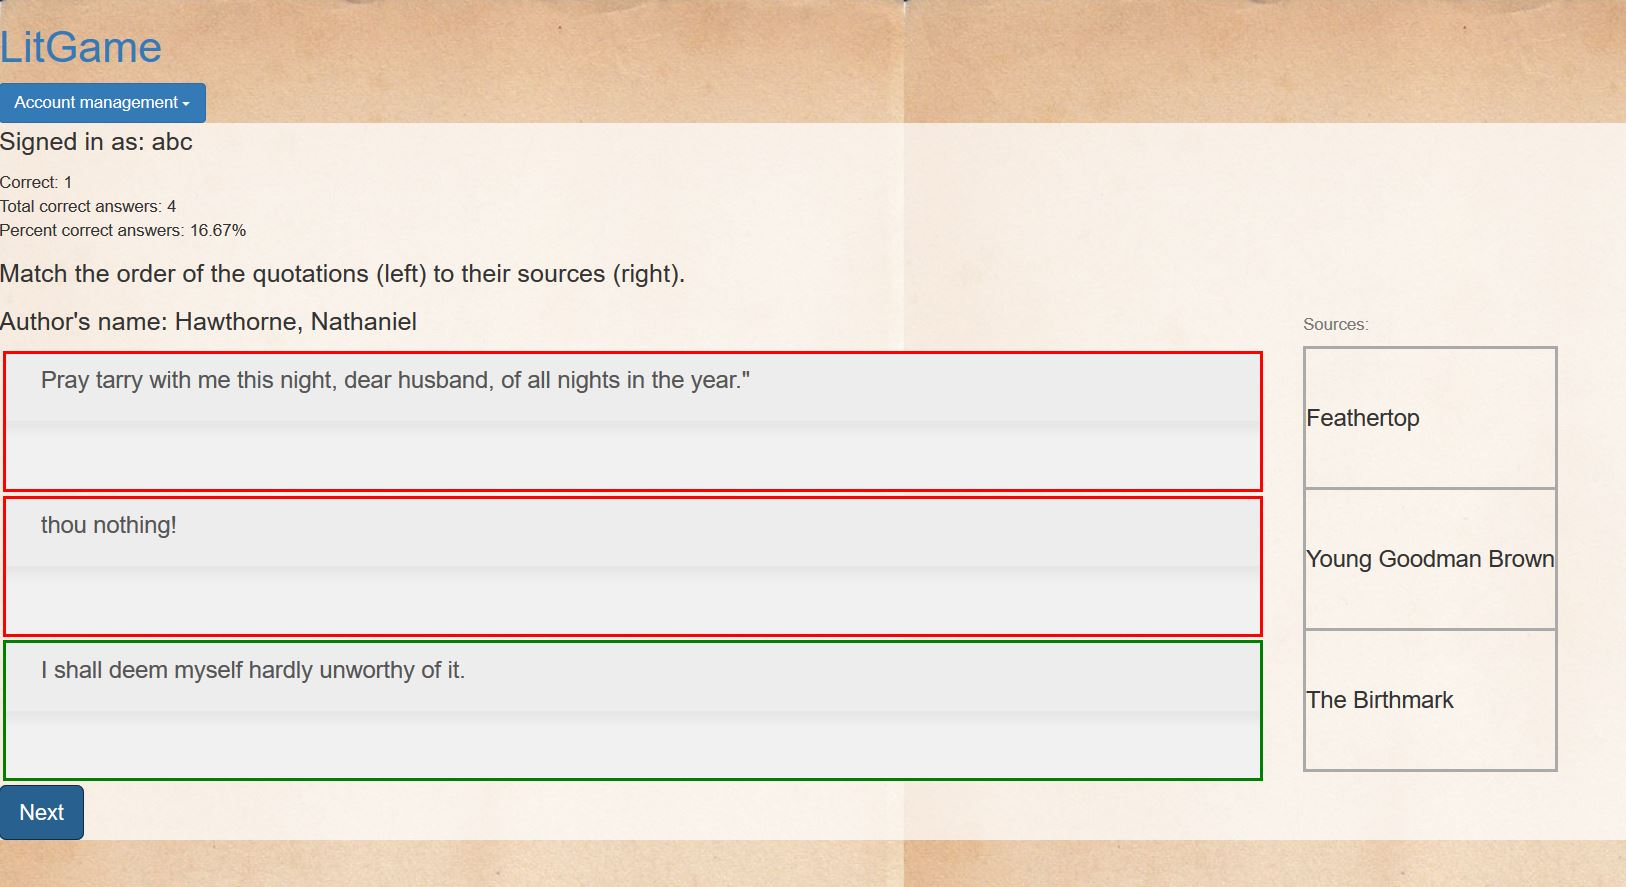
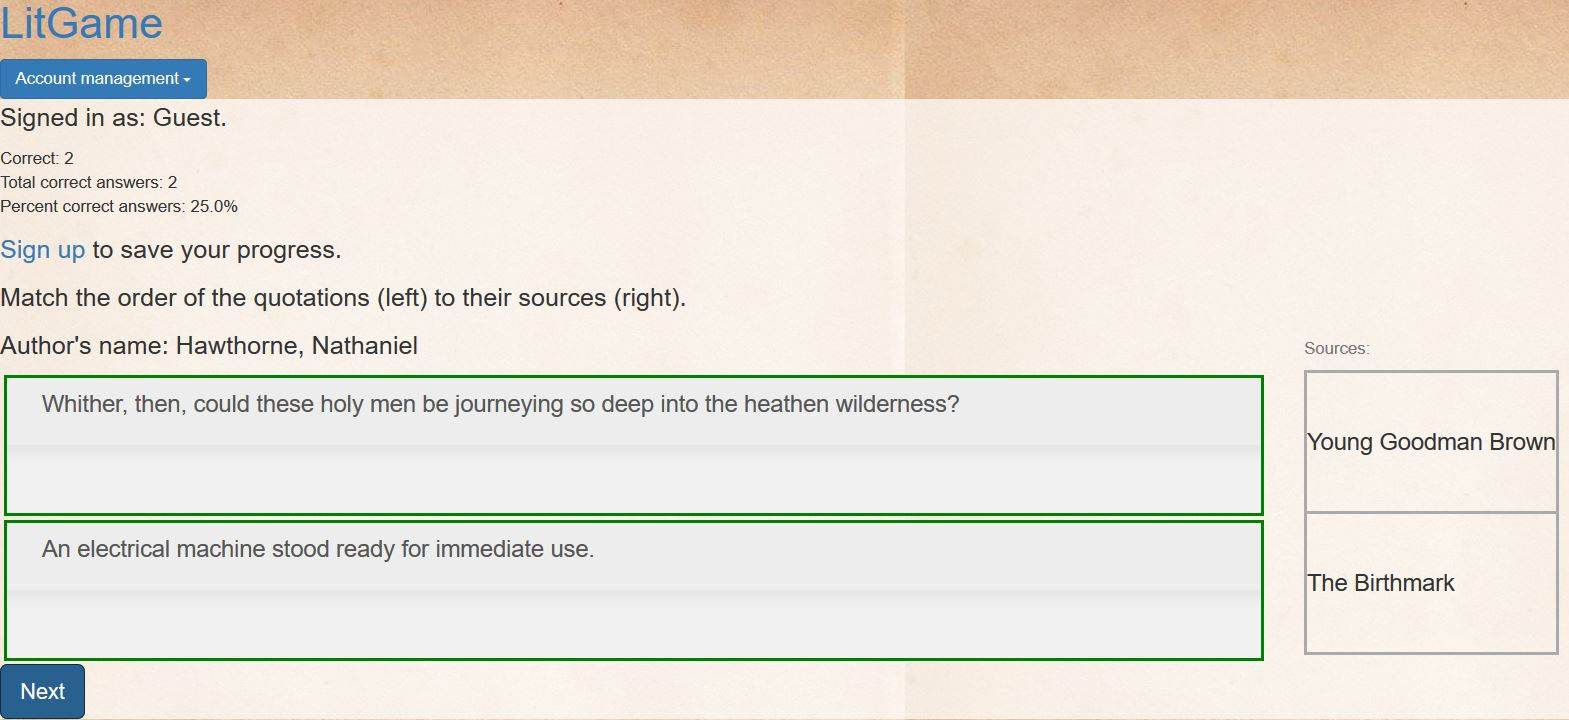
change number of quotations per quiz to 2
As per user feedback, change the number of quotations displayed in a quiz from 3 to 2.

diff --git a/templates/index.html b/templates/index.html
@@ -5,27 +5,12 @@
 <meta name="viewport" content="width=device-width, initial-scale=1.0">
 <title>Literature Game</title>
 <link rel="shortcut icon" href="{{ url_for('static', filename='favicon.ico') }}">
-<script
-	src="https://code.jquery.com/jquery-3.3.1.min.js"
-	integrity="sha256-FgpCb/KJQlLNfOu91ta32o/NMZxltwRo8QtmkMRdAu8="
-	crossorigin="anonymous">
-</script>
 
 <link rel="stylesheet" type="text/css" href="{{ url_for('static', filename='css/main.css') }}">
-<!--
-<link rel="stylesheet" href="https://maxcdn.bootstrapcdn.com/bootstrap/3.3.7/css/bootstrap.min.css" id="bootstrap-css">
--->
-<link rel="stylesheet" href="https://maxcdn.bootstrapcdn.com/bootstrap/4.0.0/css/bootstrap.min.css" integrity="sha384-Gn5384xqQ1aoWXA+058RXPxPg6fy4IWvTNh0E263XmFcJlSAwiGgFAW/dAiS6JXm" crossorigin="anonymous">
-<script src="https://cdnjs.cloudflare.com/ajax/libs/popper.js/1.12.9/umd/popper.min.js" integrity="sha384-ApNbgh9B+Y1QKtv3Rn7W3mgPxhU9K/ScQsAP7hUibX39j7fakFPskvXusvfa0b4Q" crossorigin="anonymous"></script>
-<script src="https://maxcdn.bootstrapcdn.com/bootstrap/4.0.0/js/bootstrap.min.js" integrity="sha384-JZR6Spejh4U02d8jOt6vLEHfe/JQGiRRSQQxSfFWpi1MquVdAyjUar5+76PVCmYl" crossorigin="anonymous"></script>
-<link href="https://cdnjs.cloudflare.com/ajax/libs/ekko-lightbox/5.3.0/ekko-lightbox.css" rel="stylesheet">
-<script
-    src="https://cdnjs.cloudflare.com/ajax/libs/ekko-lightbox/5.3.0/ekko-lightbox.min.js">
-</script>
-<script
-       src="https://cdnjs.cloudflare.com/ajax/libs/ekko-lightbox/5.3.0/ekko-lightbox.js.map">
-</script>
+<link rel="stylesheet" href="https://maxcdn.bootstrapcdn.com/bootstrap/3.3.7/css/bootstrap.min.css" integrity="sha384-BVYiiSIFeK1dGmJRAkycuHAHRg32OmUcww7on3RYdg4Va+PmSTsz/K68vbdEjh4u" crossorigin="anonymous">
 
+<link href="//cdn.rawgit.com/noelboss/featherlight/1.7.13/release/featherlight.min.css" type="text/css" rel="stylesheet" />
+<link href="//cdn.rawgit.com/noelboss/featherlight/1.7.13/release/featherlight.gallery.min.css" type="text/css" rel="stylesheet" />
 </head>
 <body>
     <div class="container">
@@ -39,34 +24,36 @@
             Click <a href="{{url_for('guest_account')}}">here</a> to get started, <a href="{{url_for('signup')}}">create an account</a>, or <a href="{{url_for('login')}}">login</a> to save your progress.</p>
 
             <p>Click the below images to enlarge them.</p>
-
-            <div class="row justify-content-center">
-                <div class="col-md-8">
-                    <div class="row">
-                        <a href="/static/img/game_no_ans.jpg" data-toggle="lightbox" data-gallery="example-gallery" class="col-sm-4">
-                            <img src="/static/img/game_no_ans.jpg" alt="Screenshot of game in progress." class="img-fluid">
-                        </a>
-                        <a href="/static/img/game_wrong_ans.jpg" alt="Screenshot of game in progress." data-toggle="lightbox" data-gallery="example-gallery" class="col-sm-4">
-                            <img src="/static/img/game_wrong_ans.jpg" alt="Screenshot of game in progress." class="img-fluid">
-                        </a>
-                        <a href="/static/img/game_correct_ans.jpg" data-toggle="lightbox" data-gallery="example-gallery" class="col-sm-4">
-                            <img src="/static/img/game_correct_ans.jpg" alt="Screenshot of game in progress." class="img-fluid">
-                        </a>
-                    </div>
-                </div>
-            </div>
-
+			
+			<section
+				data-featherlight-gallery
+				data-featherlight-filter="a"
+				style="margin: 1px auto;">
+					<a href="/static/img/game_no_ans.jpg"><img src="/static/img/thumbnail_game_no_ans.jpg" alt="Screenshot of game in progress." class="gallery-img"></a>
+					<a href="/static/img/game_wrong_ans.jpg"><img src="/static/img/thumbnail_game_wrong_ans.jpg" alt="Screenshot of game in progress." class="gallery-img"></a>
+					<a href="/static/img/game_correct_ans.jpg"><img src="/static/img/thumbnail_game_correct_ans.jpg" alt="Screenshot of game in progress." class="gallery-img"></a>
+			</section>
+			
             <a href="{{url_for('policy')}}">Terms of Service and Privacy Policy.</a>
             <p id="copywrite">LitGame &copy; 2018</p>
         </div>
     </div>
-
-    <script>
-        $(document).on('click', '[data-toggle="lightbox"]', function(event) {
-                event.preventDefault();
-                $(this).ekkoLightbox();
-            });
-    </script>
-
+	
+	<script
+			  src="https://code.jquery.com/jquery-3.3.1.min.js"
+			  integrity="sha256-FgpCb/KJQlLNfOu91ta32o/NMZxltwRo8QtmkMRdAu8="
+			  crossorigin="anonymous">
+	</script>
+	<script src="https://cdn.rawgit.com/noelboss/featherlight/1.7.13/release/featherlight.min.js" type="text/javascript" charset="utf-8"></script>
+	<script src="https://cdn.rawgit.com/noelboss/featherlight/1.7.13/release/featherlight.gallery.min.js" type="text/javascript" charset="utf-8"></script>
+	<script src="https://cdnjs.cloudflare.com/ajax/libs/detect_swipe/2.1.1/jquery.detect_swipe.min.js"></script>
+	<script>
+		$('a.gallery').featherlightGallery({
+		previousIcon: '&#9664;',     /* Code that is used as previous icon */
+		nextIcon: '&#9654;',         /* Code that is used as next icon */
+		galleryFadeIn: 0,          /* fadeIn speed when slide is loaded */
+		galleryFadeOut: 0         /* fadeOut speed before slide is loaded */
+	});
+	</script>
 </body>
 </html>

diff --git a/templates/policy.html b/templates/policy.html
@@ -2,7 +2,8 @@
 <html lang="en">
 <head>
 <meta charset="UTF-8">
-<title></title>
+<title>LitGame Terms of Service and Privacy Policy</title>
+<link rel="shortcut icon" href="{{ url_for('static', filename='favicon.ico') }}">
 </head>
 <body>
 
@@ -42,14 +43,14 @@
 <h2>Privacy Policy</h2>
 
 
-<p>Effective date: December 04, 2018</p>
+<p>Effective date: February 22, 2019</p>
 
 
 <p> LitGame ("us", "we", or "our") operates the  website (the "Service").</p>
 
 <p>This page informs you of our policies regarding the collection, use, and disclosure of personal data when you use our Service and the choices you have associated with that data. Our Privacy Policy  is managed through <a href="https://www.freeprivacypolicy.com/free-privacy-policy-generator.php">Free Privacy Policy Website</a>.</p>
 
-<p>We use your data to provide and improve the Service. By using the Service, you agree to the collection and use of information in accordance with this policy. Unless otherwise defined in this Privacy Policy, terms used in this Privacy Policy have the same meanings as in our Terms and Conditions, accessible from </p>
+<p>We use your data to provide and improve the Service. By using the Service, you agree to the collection and use of information in accordance with this policy. Unless otherwise defined in this Privacy Policy, terms used in this Privacy Policy have the same meanings as in our Terms and Conditions, accessible above.</p>
 
 
 <h2>Information Collection And Use</h2>
@@ -83,7 +84,7 @@
 
 <h2>Use of Data</h2>
 
-<p> uses the collected data for various purposes:</p>
+<p> Uses the collected data for various purposes:</p>
 <ul>
     <li>To provide and maintain the Service</li>
     <li>To notify you about changes to our Service</li>
@@ -98,15 +99,15 @@
 <p>Your information, including Personal Data, may be transferred to — and maintained on — computers located outside of your state, province, country or other governmental jurisdiction where the data protection laws may differ than those from your jurisdiction.</p>
 <p>If you are located outside Canada and choose to provide information to us, please note that we transfer the data, including Personal Data, to Canada and process it there.</p>
 <p>Your consent to this Privacy Policy followed by your submission of such information represents your agreement to that transfer.</p>
-<p> will take all steps reasonably necessary to ensure that your data is treated securely and in accordance with this Privacy Policy and no transfer of your Personal Data will take place to an organization or a country unless there are adequate controls in place including the security of your data and other personal information.</p>
+<p>We will take all steps reasonably necessary to ensure that your data is treated securely and in accordance with this Privacy Policy and no transfer of your Personal Data will take place to an organization or a country unless there are adequate controls in place including the security of your data and other personal information.</p>
 
 <h2>Disclosure Of Data</h2>
 
 <h3>Legal Requirements</h3>
-<p> may disclose your Personal Data in the good faith belief that such action is necessary to:</p>
+<p>LitGame may disclose your Personal Data in the good faith belief that such action is necessary to:</p>
 <ul>
     <li>To comply with a legal obligation</li>
-    <li>To protect and defend the rights or property of </li>
+    <li>To protect and defend the rights or property of LitGame</li>
     <li>To prevent or investigate possible wrongdoing in connection with the Service</li>
     <li>To protect the personal safety of users of the Service or the public</li>
     <li>To protect against legal liability</li>
@@ -133,9 +134,7 @@
 
 <h2>Changes To This Privacy Policy</h2>
 <p>We may update our Privacy Policy from time to time. We will notify you of any changes by posting the new Privacy Policy on this page.</p>
-<p>We will let you know via email and/or a prominent notice on our Service, prior to the change becoming effective and update the "effective date" at the top of this Privacy Policy.</p>
 <p>You are advised to review this Privacy Policy periodically for any changes. Changes to this Privacy Policy are effective when they are posted on this page.</p>
-
 
 </body>
 </html>

diff --git a/templates/game.html b/templates/game.html
@@ -7,7 +7,9 @@
 <link rel="shortcut icon" href="{{ url_for('static', filename='favicon.ico') }}">
 <link rel="stylesheet" type="text/css" href="/static/css/main.css">
 <link rel="stylesheet" href="https://code.jquery.com/ui/1.9.1/themes/base/jquery-ui.css">
+
 <link rel="stylesheet" href="https://maxcdn.bootstrapcdn.com/bootstrap/3.3.7/css/bootstrap.min.css">
+
 <style>
   #quotations { list-style-type: none; margin: 0; padding: 0;}
   #quotations li {
@@ -20,12 +22,6 @@
     overflow-y: auto;
     }
   #quotations li span { position: absolute; margin-left: -1.3em; }
-
-  td {
-    border: 1px solid;
-  }
-  #sources {
-  }
 
   #next_button {
     display: none;
@@ -44,6 +40,14 @@
   #statistics ul{
     list-style: none;
     padding-left: 0;
+  }
+  
+  @media screen and (max-width: 600px){
+     #td, tr{
+      height: 2em;
+      font-size: 1.4em;
+      border: #aaaaaa solid 2px;
+     }
   }
 </style>
 
@@ -119,7 +123,6 @@
 				<ul id="quotations">
 					<li id="item1" class="ui-state-default"><span class="ui-icon ui-icon-arrowthick-2-n-s"></span>Quote 1</li>
 					<li id="item2" class="ui-state-default"><span class="ui-icon ui-icon-arrowthick-2-n-s"></span>Quote 2</li>
-					<li id="item3" class="ui-state-default"><span class="ui-icon ui-icon-arrowthick-2-n-s"></span>Quote 3</li>
 				</ul>
 			</div>
 			<div class="col-sm-4">
@@ -135,11 +138,6 @@
 					<tr>
 						<td id="source2">
 							Source 2
-						</td>
-					</tr>
-					<tr>
-						<td id="source3">
-							Source 3
 						</td>
 					</tr>
 				</table>

diff --git a/static/js/game.js b/static/js/game.js
@@ -36,11 +36,9 @@ function populate_quotes(name){
       
       $("#item1").html(in_json.sentences[0]);
       $("#item2").html(in_json.sentences[1]);
-      $("#item3").html(in_json.sentences[2]);
 
       $("#source1").html(in_json.works[0]);
       $("#source2").html(in_json.works[1]);
-      $("#source3").html(in_json.works[2]);
 
       $('#user_greeting').text(in_json.username);
 
@@ -78,7 +76,7 @@ function start_game(){
 
 function submit_answer(){
   var works = "{\"works\": [";
-  var all_works = new Array($('#source1').html(), $('#source2').html(), $('#source3').html());
+  var all_works = new Array($('#source1').html(), $('#source2').html());
 
   for(var j = 0; j < all_works.length; j++){
     all_works[j] = (all_works[j]).replace(/\"/g, '&quot;');

diff --git a/static/css/main.css b/static/css/main.css
@@ -16,9 +16,11 @@ p {
     font-size: 1.5em;
 }
 
-/*IE 11 compatibility*/
-.ekko-lightbox .modal-dialog {
-  flex: 100%!important;
-  margin-left: 0;
-  margin-right: 0;
+.gallery-img {
+  margin: 3px;
+  border: 2px solid LightGrey;
+}
+
+.gallery-img:hover{
+  border-color: black;
 }

diff --git a/routes.py b/routes.py
@@ -31,7 +31,7 @@ app.config['SQLALCHEMY_TRACK_MODIFICATIONS'] = False #this feature is not needed
 db.init_app(app)
 app.config['SESSION_COOKIE_SAMESITE'] = 'Strict' #prevents sending cookies with all external requests
 
-NUMQ = 3
+NUMQ = 2 #number of quotes per quiz
 
 ACCOUNT_TYPE_GUEST = 0
 ACCOUNT_TYPE_REGULAR = 1
@@ -152,7 +152,7 @@ def populate_quotes(author):
     sources = [item[0] for item in sources]
     shuffle(sources)
     sources = sources[:NUMQ]
-
+    # !!! TODO: continue fix below - maybe with dict to json
     for a_source in sources:
         quotes.append(Quote.query.filter_by(author = author).filter_by(work = a_source).order_by(func.random()).first())
 
@@ -160,7 +160,7 @@ def populate_quotes(author):
         selection.work = escape(selection.work)
         selection.sentence = (selection.sentence).replace('"', '&quot;')
 
-    db_json = '''{"works": ["''' + quotes[0].work + '''", "''' + quotes[1].work + '''", "''' + quotes[2].work + '''"], "sentences": ["''' + quotes[0].sentence +'''", "''' + quotes[1].sentence + '''", "''' + quotes[2].sentence + '''"]}'''
+    db_json = '''{"works": ["''' + quotes[0].work + '''", "''' + quotes[1].work +  '''"], "sentences": ["''' + quotes[0].sentence +'''", "''' + quotes[1].sentence +  '''"]}'''
     db_json = db_json.replace('\\&quot;', '&quot;')
     db_json = db_json.replace('\&quot;','&quot;')
     db_json = db_json.replace("\\'", "'")
@@ -175,10 +175,10 @@ def populate_quotes(author):
     else:
         username = "Signed in as: " + escape(user.username)
 
-    out_json = '''{"account_type": ''' + str(user.account_type) + ''', "username": "''' + username +'''", "quiz_id": "''' + str(quiz.quiz_id) + '''", "works": ["''' + quotes[0].work + '''", "''' + quotes[1].work + '''", "''' + quotes[2].work + '''"], "sentences": ["'''
+    out_json = '''{"account_type": ''' + str(user.account_type) + ''', "username": "''' + username +'''", "quiz_id": "''' + str(quiz.quiz_id) + '''", "works": ["''' + quotes[0].work + '''", "''' + quotes[1].work + '''"], "sentences": ["'''
     shuffle(quotes)
 
-    out_json += quotes[0].sentence +'''", "''' + quotes[1].sentence + '''", "''' + quotes[2].sentence + '''"]}'''
+    out_json += quotes[0].sentence +'''", "''' + quotes[1].sentence + '''"]}'''
     out_json = out_json.replace('\\&quot;', '&quot;')
     out_json = out_json.replace('\&quot;', '&quot;')
     out_json = out_json.replace("\\'", "'")
@@ -201,17 +201,11 @@ def grade_quiz(quiz_id):
     instr = (request.data).decode('utf-8')
 
     score = 0
-    marked = [False, False, False]
-    if quiz.quotes == instr:#perfect match
-        score = 3
-        marked = [True, True, True]
-    else:
-        in_data = json.loads(instr)
-        db_data = json.loads(quiz.quotes)
-        for i in range(NUMQ):
-            if in_data["sentences"][i] == db_data["sentences"][i]:
-                score += 1
-                marked[i] = True
+    marked = [False, False]
+    if quiz.quotes == instr:#perfect match; otherwise both quotes are mis-matched
+        score = NUMQ
+        marked = [True, True]
+    
     quiz.score = score
     quiz.is_solved = True
     db.session.commit()
